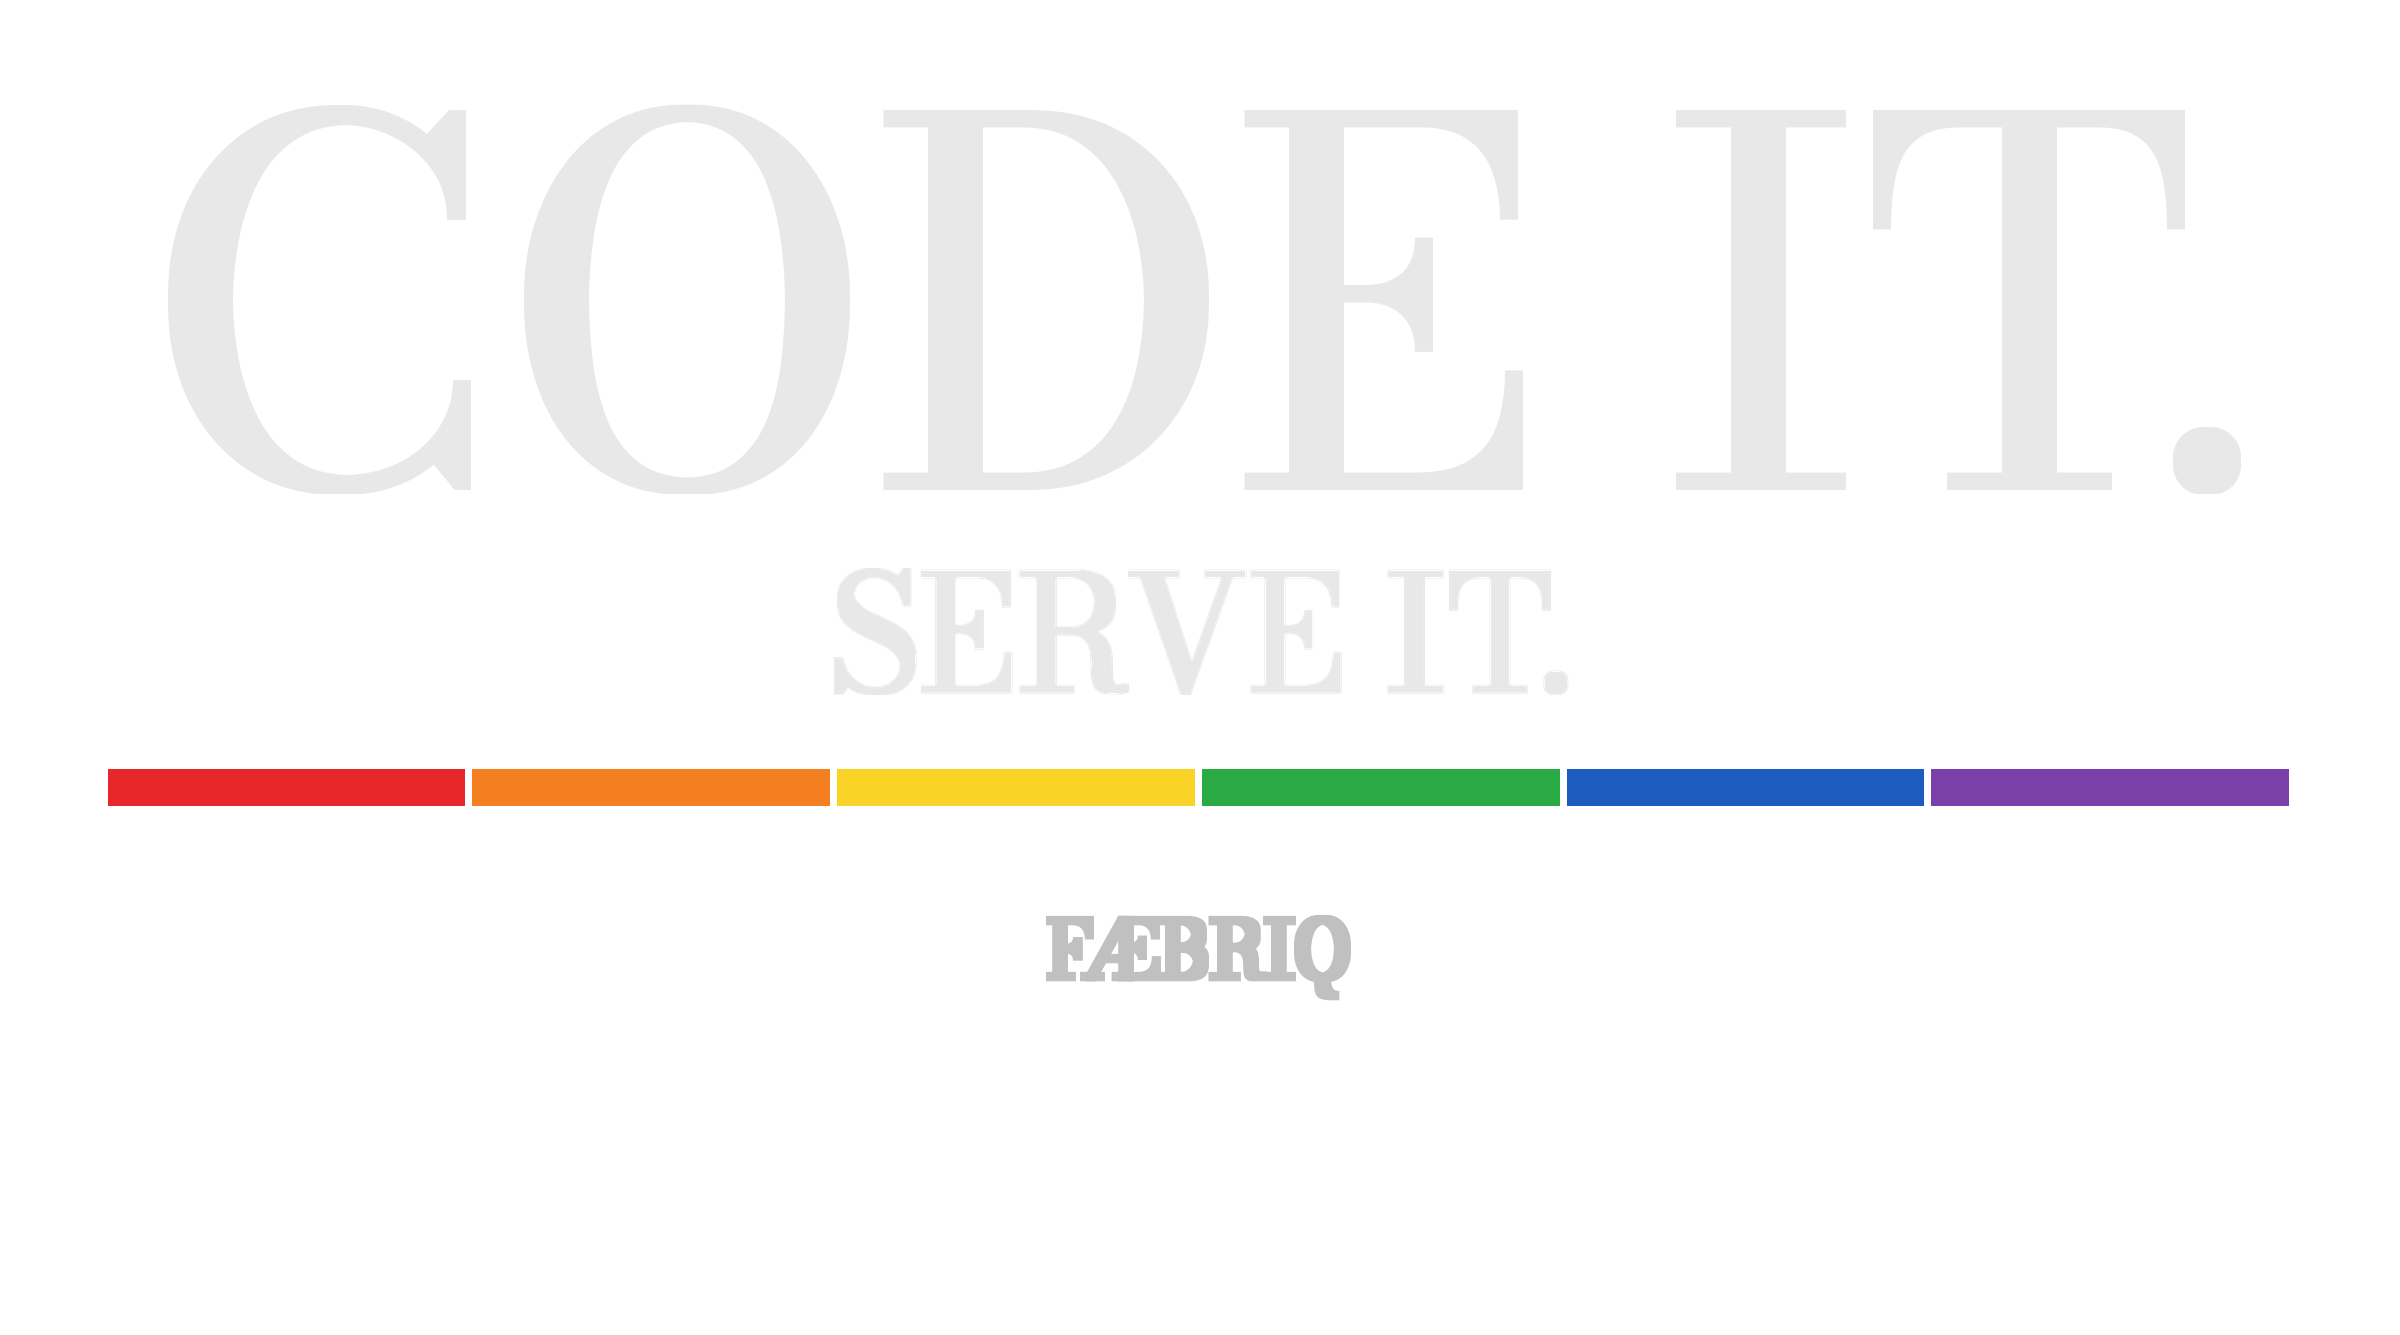
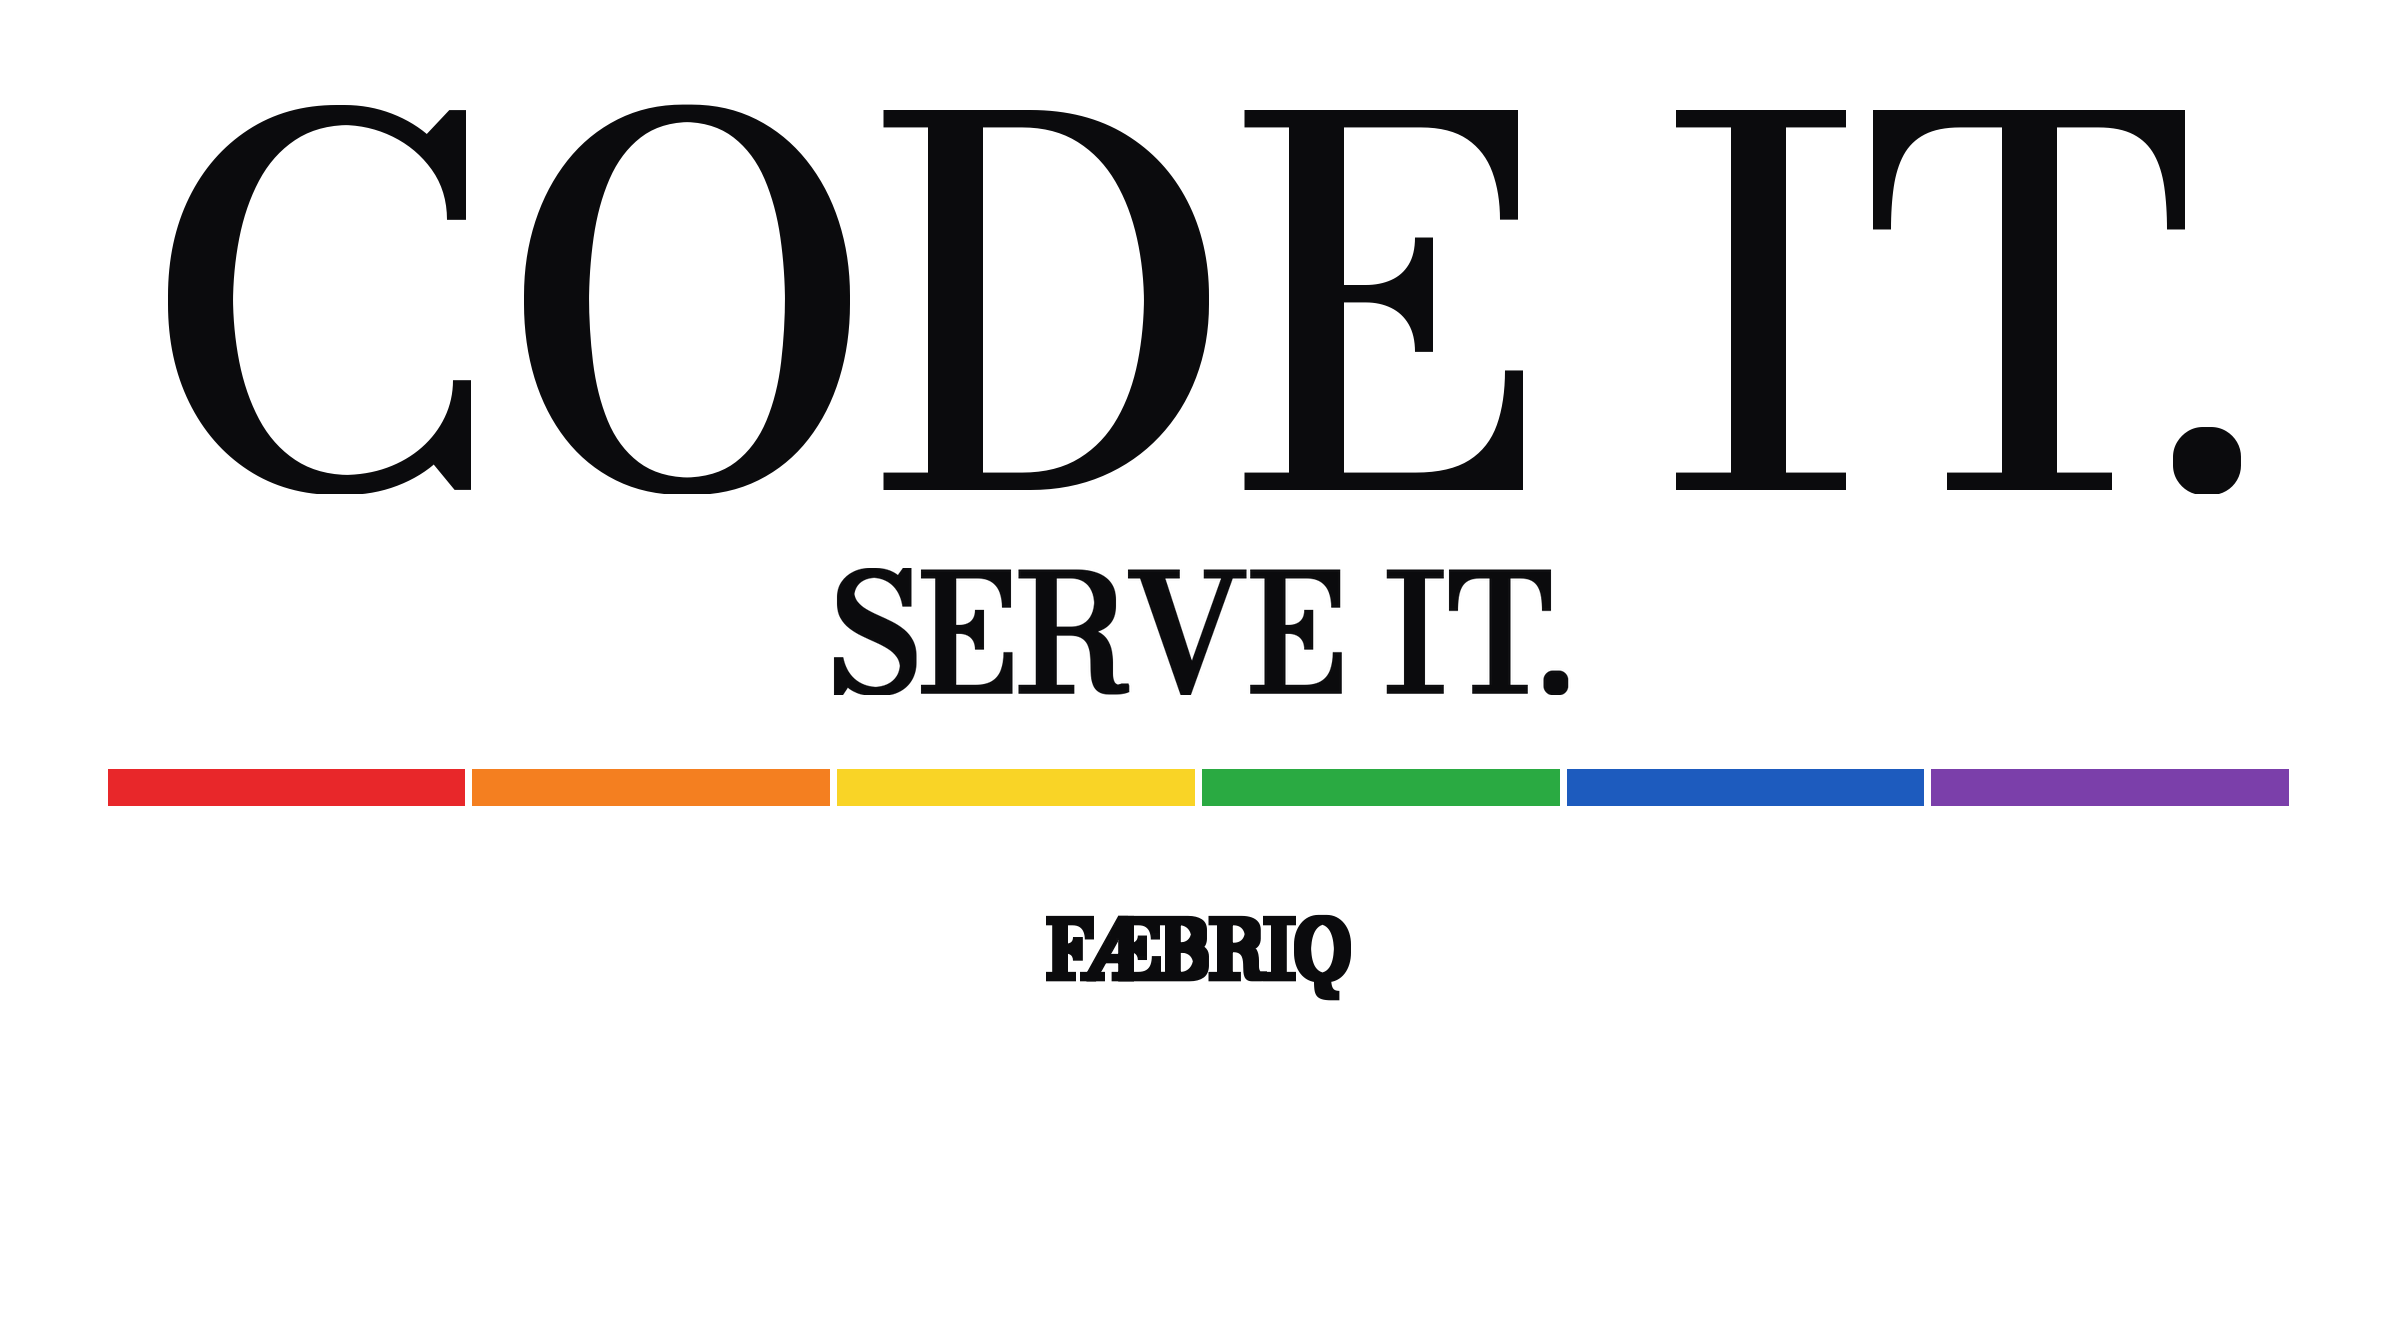
Fix white vinyl sticker contrast

diff --git a/tools/recolor_sticker_masters_near_black.py b/tools/recolor_sticker_masters_near_black.py
@@ -1,0 +1,69 @@
+#!/usr/bin/env python3
+"""Recolor FÆBRIQ locked sticker lettering for white vinyl without moving pixels.
+
+Approved change, 2026-09-26:
+- White/neutral lettering and FÆBRIQ wordmarks become #0B0B0D.
+- The six-color Pride Circuit bar, alpha channel, dimensions, DPI, and geometry stay unchanged.
+- Standard white vinyl remains the physical background; it is not printed into the PNG.
+"""
+from __future__ import annotations
+
+import hashlib
+from pathlib import Path
+
+from PIL import Image
+
+ROOT = Path(__file__).resolve().parents[1]
+NEAR_BLACK = (11, 11, 13)
+FILES = [
+    ROOT / "assets/print-art/sticker-final-system-2026-08-27/404-straight-not-found-v3-sticker-light-2400.png",
+    ROOT / "assets/print-art/sticker-final-system-2026-08-27/code-it-serve-it-sticker-light-2400.png",
+    ROOT / "assets/print-art/sticker-final-system-2026-08-27/deploying-identity-v2-sticker-light-2400.png",
+    ROOT / "assets/print-art/sticker-final-system-2026-08-27/its-not-a-bug-its-me-sticker-light-2400.png",
+    ROOT / "assets/print-art/sticker-final-system-2026-08-27/please-hold-rebranding-identity-sticker-light-2400.png",
+    ROOT / "assets/print-art/sticker-sheet-serif-2400x3600.png",
+]
+
+
+def sha256(path: Path) -> str:
+    return hashlib.sha256(path.read_bytes()).hexdigest()
+
+
+def is_neutral_light(r: int, g: int, b: int, a: int) -> bool:
+    """Match only anti-aliased white or neutral lettering, never the rainbow bar."""
+    return a > 0 and min(r, g, b) >= 96 and max(r, g, b) - min(r, g, b) <= 5
+
+
+def recolor(path: Path) -> tuple[int, str, str]:
+    before = sha256(path)
+    with Image.open(path) as src:
+        dpi = src.info.get("dpi", (300, 300))
+        original = src.convert("RGBA")
+    original_alpha = original.getchannel("A").tobytes()
+    pixels = list(original.getdata())
+    transformed = [
+        (*NEAR_BLACK, a) if is_neutral_light(r, g, b, a) else (r, g, b, a)
+        for r, g, b, a in pixels
+    ]
+    changed = sum(a != b for a, b in zip(pixels, transformed))
+    output = Image.new("RGBA", original.size)
+    output.putdata(transformed)
+    if output.getchannel("A").tobytes() != original_alpha:
+        raise RuntimeError(f"alpha changed for {path}")
+    output.save(path, format="PNG", dpi=dpi, optimize=True)
+    with Image.open(path) as check:
+        if check.size != original.size or check.mode != "RGBA":
+            raise RuntimeError(f"geometry changed for {path}")
+        if check.getchannel("A").tobytes() != original_alpha:
+            raise RuntimeError(f"alpha changed after save for {path}")
+    return changed, before, sha256(path)
+
+
+def main() -> None:
+    for path in FILES:
+        changed, before, after = recolor(path)
+        print(f"{path.relative_to(ROOT)}\tchanged={changed}\tbefore={before}\tafter={after}")
+
+
+if __name__ == "__main__":
+    main()

diff --git a/tools/validate_sticker_final_system.py b/tools/validate_sticker_final_system.py
@@ -5,22 +5,24 @@ from PIL import Image
 root = Path(__file__).resolve().parents[1]
 folder = root / "assets" / "print-art" / "sticker-final-system-2026-08-27"
 expected = {
+    "404-straight-not-found-v3-sticker-light-2400.png": ("404", "STRAIGHT NOT FOUND"),
     "deploying-identity-v2-sticker-light-2400.png": ("DEPLOYING", "IDENTITY V2.0"),
     "please-hold-rebranding-identity-sticker-light-2400.png": ("PLEASE HOLD", "I'M REBRANDING MY IDENTITY"),
     "code-it-serve-it-sticker-light-2400.png": ("CODE IT.", "SERVE IT."),
-    "error-404-straight-not-found-sticker-light-2400.png": ("ERROR 404", "STRAIGHT NOT", "FOUND"),
     "its-not-a-bug-its-me-sticker-light-2400.png": ("IT'S NOT A BUG.", "IT'S ME."),
 }
 required_circuit = {(232, 39, 42), (244, 127, 32), (249, 212, 38), (42, 170, 66), (29, 91, 190), (123, 63, 170)}
+near_black = (11, 11, 13)
 results = []
 for name, text in expected.items():
     path = folder / name
     if not path.exists():
         raise SystemExit(f"missing: {path}")
     with Image.open(path) as im:
-        colors = set(im.convert("RGBA").getdata())
+        rgba = im.convert("RGBA")
+        colors = set(rgba.getdata())
         rgb_colors = {(r, g, b) for r, g, b, a in colors if a > 0}
-        alpha = im.getchannel("A")
+        alpha = rgba.getchannel("A")
         bbox = alpha.getbbox()
         row = {
             "file": str(path.relative_to(root)),
@@ -32,22 +34,24 @@ for name, text in expected.items():
             "transparent_background": (0, 0, 0, 0) in colors,
             "alpha_bbox": bbox,
             "circuit_colors_present": sorted(required_circuit.intersection(rgb_colors)),
-            "pass": im.size[0] == 2400 and im.mode == "RGBA" and im.info.get("dpi", (0, 0))[0] >= 299 and len(required_circuit.intersection(rgb_colors)) == 6,
+            "near_black_present": near_black in rgb_colors,
+            "pass": im.size[0] == 2400 and im.mode == "RGBA" and im.info.get("dpi", (0, 0))[0] >= 299 and len(required_circuit.intersection(rgb_colors)) == 6 and near_black in rgb_colors,
         }
         if not row["pass"]:
             raise SystemExit(json.dumps(row, indent=2))
         results.append(row)
 manifest = {
     "system": "FÆBRIQ sticker final system",
-    "date": "2026-08-27",
+    "date": "2026-09-26",
     "product": "sticker",
     "provider": "SPOKE kiss-cut",
-    "ink": "light",
+    "ink": "near-black #0B0B0D lettering on white vinyl",
     "resolution": "2400 px wide, RGBA, 300 dpi",
     "rules": {
         "wordmark_included": True,
         "pride_circuit_stripes": 6,
         "transparent_background": True,
+        "standard_white_vinyl_supplies_background": True,
         "no_store_publish_or_sync": True,
     },
     "outputs": results,

diff --git a/IMAGERY_SPEC_2026-09-23.md b/IMAGERY_SPEC_2026-09-23.md
@@ -7,7 +7,8 @@ Decisions by Maurice. Decision board: https://claude.ai/artifact/9zSaBXjVRRWu1AV
 - **Hero:** a clean studio product shot, with the print readable at thumbnail size (about 170px wide).
 - **Gallery:** exactly 4 shots per product, in the slot order below.
 - **Ground:** the brand's near-black (#0f0e0c family). Dark studio surfaces, dark scenes.
-- **Print system (reverted 2026/09/25, supersedes the same-day Inter experiment):** Bodoni Moda, white, for every tagline design. The bar is thin and near-continuous (hairline gaps between the 6 blocks), about 1.03x the widest text line, not the flat 1.35x no-gap bar from the 2026/09/25 Inter experiment.
+- **Print system (reverted 2026/09/25, supersedes the same-day Inter experiment):** Bodoni Moda, white, for every apparel and tote tagline design. The bar is thin and near-continuous (hairline gaps between the 6 blocks), about 1.03x the widest text line, not the flat 1.35x no-gap bar from the 2026/09/25 Inter experiment.
+- **White-vinyl sticker correction, approved 2026/09/26:** The five single sticker masters and the sticker sheet use near-black `#0B0B0D` lettering and FÆBRIQ wordmarks on transparent backgrounds, so the standard white SPOKE kiss-cut substrate supplies the white field. Keep the six-color Pride Circuit bar unchanged. This is a color-only correction. Do not resize, re-space, redraw, or add a black background.
 - **Line spacing, IMPORTANT: `tools/make_print_file.py`'s formula is stale, do not regenerate from it.** The committed masters (`404-straight-not-found-v3-light-4500.png`, `code-it-serve-it-light-4500.png`, `off-the-clock-still-iconic-light-4500.png`, `deploying-identity-v2-light-4500.png`) hold hand-pixel-shifted final art from the founder's 2026/09/10 review. Their gaps are NOT reproducible by calling `make_print_file.py` fresh: its `GAP_L1_L2_OF_L1_SIZE` / `GAP_L2_BAR_OF_L2_SIZE` constants were never updated after the 09/10 pixel-shift pass, so a fresh build gives noticeably wider gaps than the shipped files. Current rule on the 4 shared-lockup masters, measured on the pixels: gap1-to-2 = gap2-to-bar = 0.25 x line-1's cap height, on all four. A further tightening pass (Off The Clock's top gap, Code It's top and bottom gaps) is in review as of 2026/09/25, not yet applied to the committed files, candidates pending the founder's pick. **Any future spacing change must be a pixel-shift on the existing master (crop the gap, shift the content below it up, same canvas size), never a re-render**, or it silently discards this approved state (the exact failure the 2026/08/27 "equal-visual-cap" incident already caused once, CHANGELOG 2026-09-08).
 - **Logo font, deliberately different from the tagline font:** the FÆBRIQ wordmark (cap front, apparel sleeve) stays in Inter SemiBold, not Bodoni. This isn't drift, it's the original documented rule (PRODUCTION_BRIEF §0): a fine serif blurs at small mark scale, so the wordmark uses a blocky sans while every tagline stays serif. Files unchanged: `logo-faebriq-1p35.png` (cap, wordmark over the stripe) and `wordmark-faebriq-sleeve.png` (sleeve, wordmark alone, no stripe).
 - **Wordmark on tagline prints:** FÆBRIQ under the stripe on stickers and the tote only, in Bodoni Moda (matches the sticker system already in place). Tees, hoodie and crewneck carry no wordmark on the chest.
@@ -78,7 +79,7 @@ Output for every shot: 4:5, 2048x2560, photographic, no text other than the prin
 - Slot 4: `Macro of the printed white wordmark and rainbow stripe on the cap front, showing the flat print surface.`
 
 **Stickers** (`{design}` = sticker print file; FÆBRIQ must be visible under the stripe)
-- Slot 1: `Studio product photo of a single kiss-cut vinyl sticker, flat on a dark textured surface. The attached design in white with the six-block rainbow stripe and the small FÆBRIQ wordmark underneath, fully legible, slight gloss.`
+- Slot 1: `Studio product photo of a single white kiss-cut vinyl sticker, flat on a dark textured surface. The attached design in near-black with the six-block rainbow stripe and the small FÆBRIQ wordmark underneath, fully legible, slight gloss.`
 - Slot 2: `The attached kiss-cut sticker applied to the lid of a black laptop, centered, soft desk light.`
 - Slot 3: `A hand holding the attached kiss-cut sticker next to a US quarter for scale, dark background, sticker sharp and legible including the FÆBRIQ wordmark.`
 - Slot 4: `Macro of the kiss-cut sticker edge showing the white border and cut line, design partly in frame, dark surface.`

diff --git a/handoff/PRINTIFY_FINAL.md b/handoff/PRINTIFY_FINAL.md
@@ -8,7 +8,8 @@ All 12 print files are locked: Bodoni Moda serif, one shared spacing rule across
 Base URL for every file below:
 `https://raw.githubusercontent.com/mknuever-lgtm/FAEBRIQ/claude/hopeful-goldberg-a40dkh/`
 Append the path from the table.
-
+## White-vinyl sticker correction, approved 2026/09/26
+The five single sticker masters and `sticker-sheet-serif-2400x3600.png` now use near-black `#0B0B0D` lettering and FÆBRIQ wordmarks over transparent backgrounds. The standard white SPOKE kiss-cut substrate supplies the white field. Keep the six-color Pride Circuit bar unchanged. These are color-only corrections: do not resize, re-space, redraw, add a black background, or use the retired `error-404` master.
 ## Do this once: read first, one approval
 1. Open all 12 Printify products. For each, record the print area's position names (front, left sleeve, etc.) and sizes in inches, and the current cost per variant.
 2. Send Maurice one table: product, position, file, target width, sleeve yes or no, cost now. Wait for his one approval, then run all 12 without asking again per product.

diff --git a/CHANGELOG.md b/CHANGELOG.md
@@ -132,3 +132,5 @@ Why: Maurice wants every gap even across designs, no exceptions.
 2026-09-26 Applied the same 0.19-0.195 gap standard to every remaining tagline design: Deploying, Not A Bug (apparel), 404 (apparel and tote, top gap only), and the 404/Not A Bug/Code It/Deploying stickers. Rebuilt the sticker sheet from the corrected stickers. Every design now reads even. Pixel-shift only, full-resolution checked before each commit.
 Why: Maurice: finish all designs to the same standard, close it out.
 2026-09-26 Added handoff/PRINTIFY_FINAL.md: every print file is locked, final Printify swap-and-publish instructions for Muse or Manus. Why: Maurice, close it out and get it into Printify.
+
+2026-09-26 Corrected all five white-vinyl sticker masters and the sticker sheet to near-black `#0B0B0D` lettering and FÆBRIQ wordmarks, preserving their transparent backgrounds, exact geometry, and six-color Pride Circuit bars. Why: the SPOKE kiss-cut sticker blank is white; white lettering on transparent art failed the live Printify contrast check. The retired `error-404` source remains retired.
